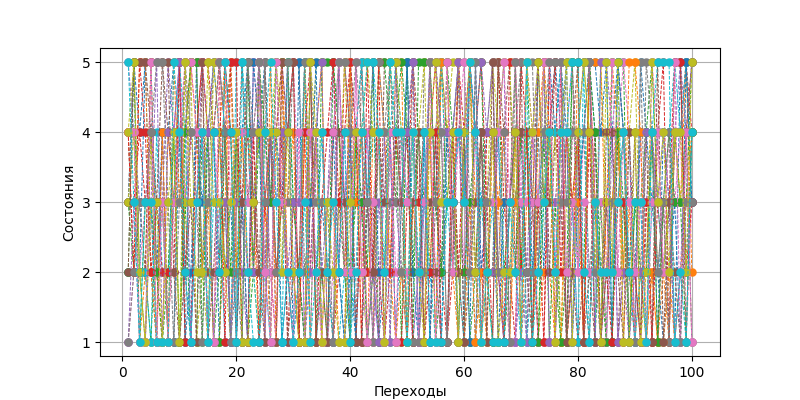
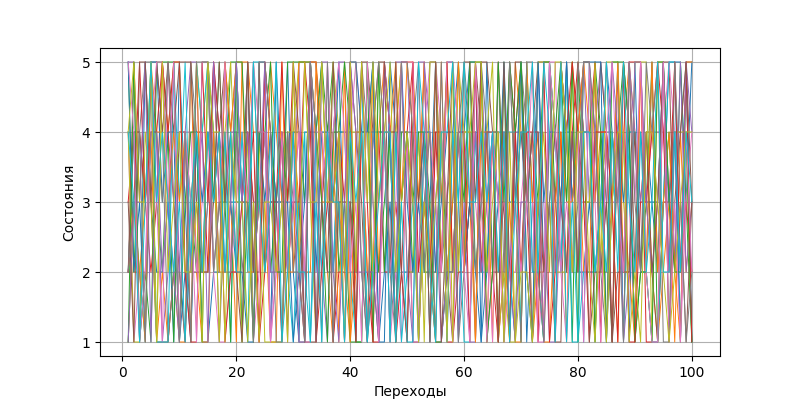
Final version

diff --git a/Latex/res/labs/educmm_txb_COMPMATHLAB-Solution_N_M.tex b/Latex/res/labs/educmm_txb_COMPMATHLAB-Solution_N_M.tex
@@ -25,11 +25,11 @@
 \subsection{Решение}
 Дана стохастическая матрица переходов $\mathbf{P}$:
 $$\mathbf{P}=\begin{pmatrix}
-0.26 & 0.15 & 0.2 & 0.21 & 0.18 \\
-0.28 & 0.17 & 0.18 & 0.19 & 0.18 \\
-0.21 & 0.13 & 0.17 & 0.32 & 0.17 \\
-0.29 & 0.2 & 0.13 & 0.17 & 0.21 \\
-0.18 & 0.18 & 0.2 & 0.24 & 0.2
+0.1 & 0.16 & 0.18 & 0.22 & 0.34 \\
+0.2 & 0.17 & 0.23 & 0.21 & 0.19 \\
+0.18 & 0.14 & 0.12 & 0.3 & 0.26 \\
+0.24 & 0.21 & 0.21 & 0.21 & 0.13 \\
+0.17 & 0.18 & 0.23 & 0.21 & 0.21
 \end{pmatrix}$$
 
 На рисунке \ref{graph} представлен граф переходов, соответствующий матрице $\mathbf{P}$.
@@ -62,16 +62,16 @@ def marginal_probabilities(P):
 ~\\
 
 Таким образом, вектор вектор предельных вероятностей:
-$$\overline{p}=(0.24613\quad 0.16662\quad 0.17580\quad 0.22276\quad 0.18870)^T$$
+$$\overline{p}=(0.18058\quad 0.17373\quad 0.19494\quad 0.22935\quad 0.22140)^T$$
 
 Предельная матрица переходов:
 
 $$\mathbf{P(n)}=\begin{pmatrix}
-0.24613 & 0.16662 & 0.17580 & 0.22276 & 0.18870\\
-0.24613 & 0.16662 & 0.17580 & 0.22276 & 0.18870\\
-0.24613 & 0.16662 & 0.17580 & 0.22276 & 0.18870\\
-0.24613 & 0.16662 & 0.17580 & 0.22276 & 0.18870\\
-0.24613 & 0.16662 & 0.17580 & 0.22276 & 0.18870\\
+0.18058 & 0.17373 & 0.19494 & 0.22935 & 0.22140\\
+0.18058 & 0.17373 & 0.19494 & 0.22935 & 0.22140\\
+0.18058 & 0.17373 & 0.19494 & 0.22935 & 0.22140\\
+0.18058 & 0.17373 & 0.19494 & 0.22935 & 0.22140\\
+0.18058 & 0.17373 & 0.19494 & 0.22935 & 0.22140\\
 \end{pmatrix} $$
 
 ~\\
@@ -114,28 +114,28 @@ S = \sqrt{D \frac{n}{n-1}}
 \begin{tabular}{| c | c | c | c | c | c |}
 \hline
 № & Сосотояние $S_1$ & Сосотояние $S_2$ & Сосотояние $S_3$ & Сосотояние $S_4$ & Сосотояние $S_5$ \\ \hline
-  1 & 0.2 & 0.17 & 0.14 & 0.3 & 0.19 \\
- \hline 2 & 0.27 & 0.13 & 0.19 & 0.22 & 0.19 \\
- \hline 3 & 0.25 & 0.25 & 0.2 & 0.16 & 0.14 \\
- \hline 4 & 0.27 & 0.16 & 0.15 & 0.23 & 0.19 \\
- \hline 5 & 0.22 & 0.17 & 0.22 & 0.25 & 0.14 \\
- \hline 6 & 0.22 & 0.16 & 0.18 & 0.19 & 0.25 \\
- \hline 7 & 0.27 & 0.16 & 0.21 & 0.24 & 0.12 \\
- \hline 8 & 0.23 & 0.11 & 0.2 & 0.16 & 0.3 \\
- \hline 9 & 0.18 & 0.17 & 0.21 & 0.25 & 0.19 \\
- \hline 10 & 0.25 & 0.21 & 0.18 & 0.2 & 0.16 \\
- \hline 11 & 0.29 & 0.14 & 0.17 & 0.25 & 0.15 \\
- \hline 12 & 0.3 & 0.19 & 0.14 & 0.2 & 0.17 \\
- \hline 13 & 0.24 & 0.18 & 0.13 & 0.21 & 0.24 \\
- \hline 14 & 0.25 & 0.19 & 0.15 & 0.24 & 0.17 \\
- \hline 15 & 0.26 & 0.11 & 0.16 & 0.26 & 0.21 \\
- \hline 16 & 0.33 & 0.16 & 0.15 & 0.16 & 0.2 \\
- \hline 17 & 0.19 & 0.19 & 0.2 & 0.22 & 0.2 \\
- \hline 18 & 0.2 & 0.16 & 0.2 & 0.2 & 0.24 \\
- \hline 19 & 0.23 & 0.16 & 0.15 & 0.29 & 0.17 \\
- \hline 20 & 0.27 & 0.21 & 0.16 & 0.21 & 0.15 \\
+  1 & 0.15 & 0.21 & 0.21 & 0.18 & 0.25 \\
+ \hline 2 & 0.21 & 0.26 & 0.14 & 0.22 & 0.17 \\
+ \hline 3 & 0.15 & 0.19 & 0.23 & 0.23 & 0.2 \\
+ \hline 4 & 0.18 & 0.2 & 0.22 & 0.24 & 0.16 \\
+ \hline 5 & 0.14 & 0.17 & 0.22 & 0.26 & 0.21 \\
+ \hline 6 & 0.23 & 0.19 & 0.19 & 0.17 & 0.22 \\
+ \hline 7 & 0.19 & 0.18 & 0.23 & 0.27 & 0.13 \\
+ \hline 8 & 0.13 & 0.17 & 0.19 & 0.29 & 0.22 \\
+ \hline 9 & 0.2 & 0.16 & 0.08 & 0.25 & 0.31 \\
+ \hline 10 & 0.27 & 0.19 & 0.11 & 0.26 & 0.17 \\
+ \hline 11 & 0.15 & 0.15 & 0.28 & 0.23 & 0.19 \\
+ \hline 12 & 0.15 & 0.19 & 0.18 & 0.23 & 0.25 \\
+ \hline 13 & 0.21 & 0.11 & 0.14 & 0.19 & 0.35 \\
+ \hline 14 & 0.2 & 0.17 & 0.16 & 0.26 & 0.21 \\
+ \hline 15 & 0.14 & 0.27 & 0.2 & 0.19 & 0.2 \\
+ \hline 16 & 0.12 & 0.2 & 0.22 & 0.19 & 0.27 \\
+ \hline 17 & 0.18 & 0.17 & 0.21 & 0.2 & 0.24 \\
+ \hline 18 & 0.22 & 0.18 & 0.13 & 0.22 & 0.25 \\
+ \hline 19 & 0.16 & 0.19 & 0.26 & 0.23 & 0.16 \\
+ \hline 20 & 0.15 & 0.21 & 0.25 & 0.28 & 0.11 \\
  \hline \hline
-S & 0.038 & 0.033 & 0.028 & 0.039 & 0.044 \\ \hline
+S & 0.039 & 0.035 & 0.052 & 0.035 & 0.058 \\ \hline
 \end{tabular}
 \caption{Таблица для сравнения относительных частот наблюдений вхождения в каждое из состояний системы}
 \label{table:Table_for_cheking_chislo_vlhozdeniy}

diff --git a/Latex/res/doc-spec/preamble_common.tex b/Latex/res/doc-spec/preamble_common.tex
@@ -1,7 +1,7 @@
-%----------------------------------------------------------
+%----------------------------------------------------------
 %\usepackage{mathtext}
 \usepackage{amssymb}
-\usepackage{amsfonts}
+%\usepackage{amsfonts}
 %\usepackage{amsmath}
 %\usepackage{mathabx}
 \usepackage{MnSymbol}
@@ -13,6 +13,7 @@
 \usepackage[T2A]{fontenc}
 \usepackage[utf8]{inputenc}
 \usepackage[english,russian]{babel} %% это необходимо для включения переносов
+%\usepackage{tempora}
 \usepackage{float}
 \usepackage{rotating}
 \usepackage{multirow}
@@ -22,7 +23,6 @@
 \usepackage{cmap} 
 \usepackage{array}
 \usepackage{multicol}
-
 \usepackage{hyperref}
 \hypersetup{colorlinks=true, linkcolor=red}
 
@@ -198,7 +198,7 @@
 \def\tempb{#2}
 \def\tempc{#3}
 \def\tempd{#4}
-  \ifx\tempempty\tempa \def\tempa{доцент кафедры РК-6, PhD~Трудоношин В.А.}\fi
+  \ifx\tempempty\tempa \def\tempa{Старший преподаватель, заместитель декана факультета РК, Берчун Ю.В.}\fi
   \ifx\tempempty\tempb \def\tempb{Решение и вёрстка:}\fi
   \ifx\tempempty\tempc \def\tempc{}\fi
   \ifx\tempempty\tempd \def\tempd{}\else \def\tempd{{\textnormal\copyright}~#4}\fi

diff --git a/Latex/res/labs/educmm_txb_COMPMATHLAB-Solution_N_M/educmm_lab_Variant_N_M-id.tex b/Latex/res/labs/educmm_txb_COMPMATHLAB-Solution_N_M/educmm_lab_Variant_N_M-id.tex
@@ -3,12 +3,12 @@
 \newcommand{\TaskType}{Домашнее задание №1}
 \newcommand{\SubTitle}{по дисциплине <<Аналитические модели и имитационное моделирование>>}
 \newcommand{\LabTitle}{Дискретные цепи Маркова} % Указана в задании, можно немного конкретизировать
-\newcommand{\VarTitle}{61}
+\newcommand{\VarTitle}{39}
 \newcommand{\Faculty}{<<Робототехника и комплексная автоматизация>>}
 \newcommand{\Department}{<<Системы автоматизированного проектирования (РК-6)>>}
-\newcommand{\AuthorFull}{Кулагин Арсений Олегович}
-\newcommand{\Author}{Кулагин А.О.}
-\newcommand{\EduGroup}{РК6-83б}
+\newcommand{\AuthorFull}{Киселев Сергей Андреевич}
+\newcommand{\Author}{Киселев С. А.}
+\newcommand{\EduGroup}{РК6-85б}
 \newcommand{\Semestr}{зимний семестр} % Например: осенний семестр или весенний семестр
 \newcommand{\BeginYear}{2023}
 \newcommand{\Year}{2023}

diff --git a/main.py b/main.py
@@ -5,11 +5,11 @@ import matplotlib.pyplot as plt
 from collections import Counter
 from Latex.latex import make_latex
 
-var = 61
-group = "РК6-83б"
+var = 39
+group = "РК6-85б"
 n = 100
-name = "Кулагин Арсений Олегович"
-name_short = "Кулагин А.О."
+name = "Киселев Сергей Андреевич"
+name_short = "Киселев С. А."
 states = [i+1 for i in range(5)]
 
 
@@ -64,7 +64,7 @@ if __name__ == "__main__":
     for _ in range(20):
         myDictionary, tr = mark_iter(n, m, states)
         dict_comp.append(myDictionary)
-        plt.plot(x, tr, 'o--', linewidth=0.7, markeredgewidth=0.1)
+        plt.plot(x, tr, '-', linewidth=0.7, markeredgewidth=0.1)
 
     # Latex file creation
     make_latex("{" + f"{var}" + "}", "{" + f"{group}" + "}", "{" + f"{name}" + "}", "{" + f"{name_short}" + "}", m, p, dict_comp)
